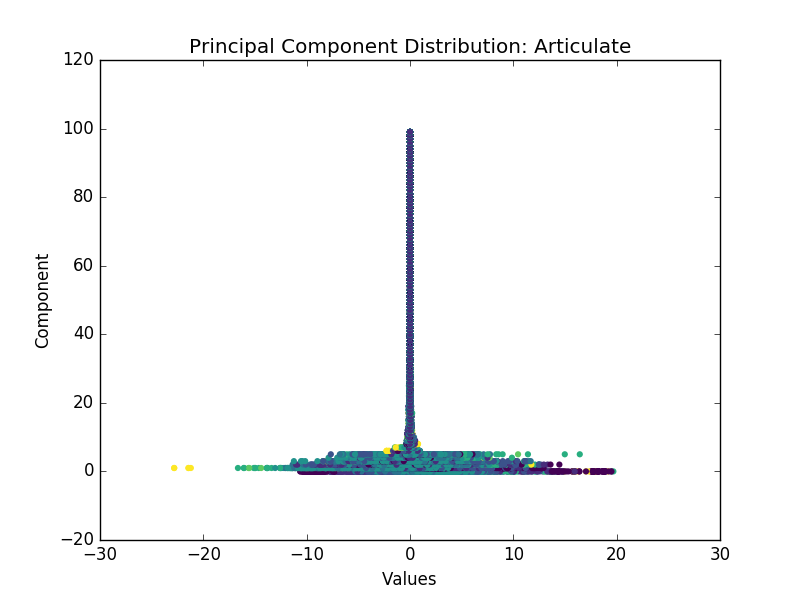
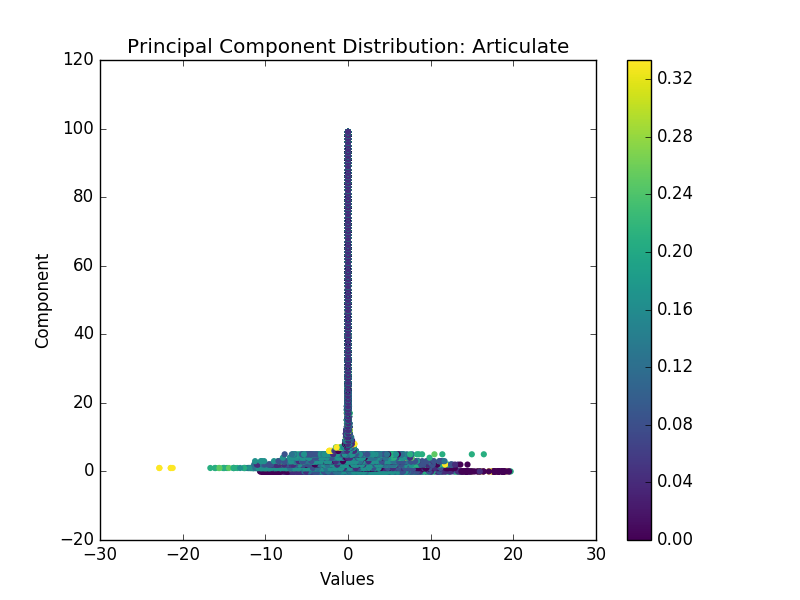
Minor fixes for stacked_1D_graphs
stacked_1D_graphs now puts color bars on the graphs. In addition, the
function both shows and saves the graphs once they are generated.

diff --git a/queuePCA.py b/queuePCA.py
@@ -34,40 +34,50 @@ axes = []
 
 def stacked_1D_graphs():
 	'''displays 1D graphs for each of the principal components stacked on top of each other'''
+	x_graph_data = []
+	y_graph_data = []
+	for i in range(100):
+		x_data = list(results.Y[:,i])
+		y_data = [i]*len(x_data)
+		x_graph_data += x_data
+		y_graph_data += y_data
+	##########################################
 	fig = plt.figure()
-	#three graphs: for articulation, rests, and sustians, respectively
 	art = fig.add_subplot(111)
+	art.set_title('Principal Component Distribution: Articulate')
 	art.set_xlabel('Values')
 	art.set_ylabel('Component')
+	articulate_values = np.loadtxt("features_property_values_articulate.v", delimiter=",")
+	art_colors = [element for element in articulate_values]*100
+	beep = art.scatter(x_graph_data, y_graph_data, c=art_colors, cmap=point_color, marker='o', edgecolors=border)
+	plt.colorbar(beep)
+	plt.savefig('PCA_distribution_articulate.png')
+	##########################################
+	fig = plt.figure()
 	rest = fig.add_subplot(111)
-	sust = fig.add_subplot(111)
+	rest.set_title('Principal Component Distribution: Rest')
 	rest.set_xlabel('Values')
 	rest.set_ylabel('Component')
+	rest_values = np.loadtxt("features_property_values_rest.v", delimiter=",")
+	rest_colors = [element for element in rest_values]*100
+	boop = rest.scatter(x_graph_data, y_graph_data, c=rest_colors, cmap=point_color, marker='o', edgecolors=border)
+	plt.colorbar(boop)
+	plt.savefig('PCA_distribution_rest.png')
+	##########################################
+	fig = plt.figure()
+	sust = fig.add_subplot(111)
+	sust.set_title('Principal Component Distribution: Sustain')
 	sust.set_xlabel('Values')
 	sust.set_ylabel('Component')
-	#three color schemes: for articulation, rests, and sustains, respectively
-	articulate_values = np.loadtxt("features_property_values_articulate.v", delimiter=",")
-	art_colors = [element for element in articulate_values]
-	rest_values = np.loadtxt("features_property_values_rest.v", delimiter=",")
-	rest_colors = [element for element in rest_values]
 	sustain_values = np.loadtxt("features_property_values_sustain.v", delimiter=",")
-	sust_colors = [element for element in sustain_values]
-	for i in range(100):
-		y_axis = [i]*len(results.Y[:,i])
-		beep = art.scatter(results.Y[:,i], y_axis, c=art_colors, cmap=point_color, marker='o', edgecolors=border)
-	art.set_title('Principal Component Distribution: Articulate')
-	plt.savefig('PCA_distribution_articulate.png')
-	for i in range(100):
-		y_axis = [i]*len(results.Y[:,i])
-		boop = rest.scatter(results.Y[:,i], y_axis, c=rest_colors, cmap=point_color, marker='o', edgecolors=border)
-	rest.set_title('Principal Component Distribution: Rest')
-	plt.savefig('PCA_distribution_rest.png')
-	for i in range(100):
-		y_axis = [i]*len(results.Y[:,i])
-		lolo = sust.scatter(results.Y[:,i], y_axis, c=sust_colors, cmap=point_color, marker='o', edgecolors=border)
-	sust.set_title('Principal Component Distribution: Sustain')
+	sust_colors = [element for element in sustain_values]*100
+	lolo = sust.scatter(x_graph_data, y_graph_data, c=sust_colors, cmap=point_color, marker='o', edgecolors=border)
+	plt.colorbar(lolo)
 	plt.savefig('PCA_distribution_sustain.png')
 
+	plt.show()
+
+stacked_1D_graphs()
 #############################################
 
 '''
